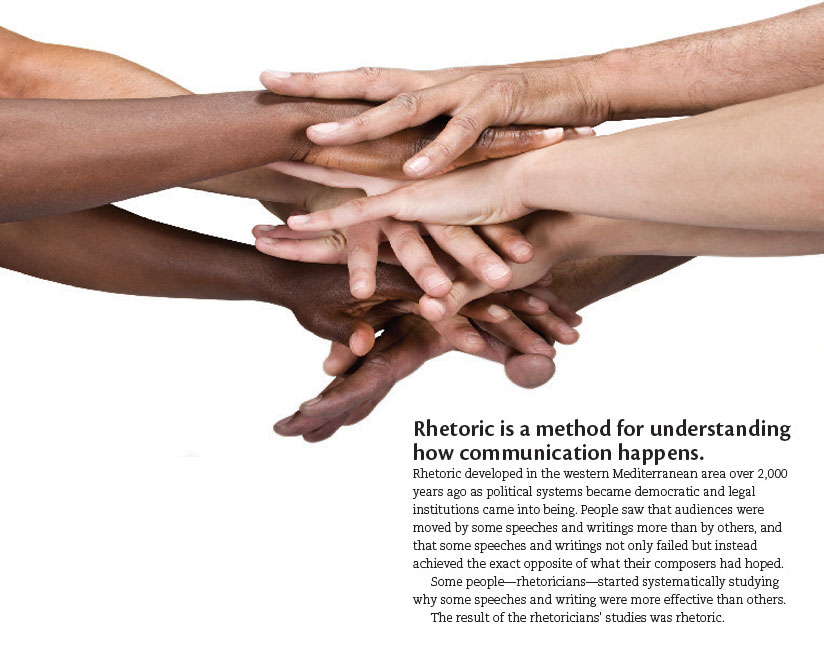
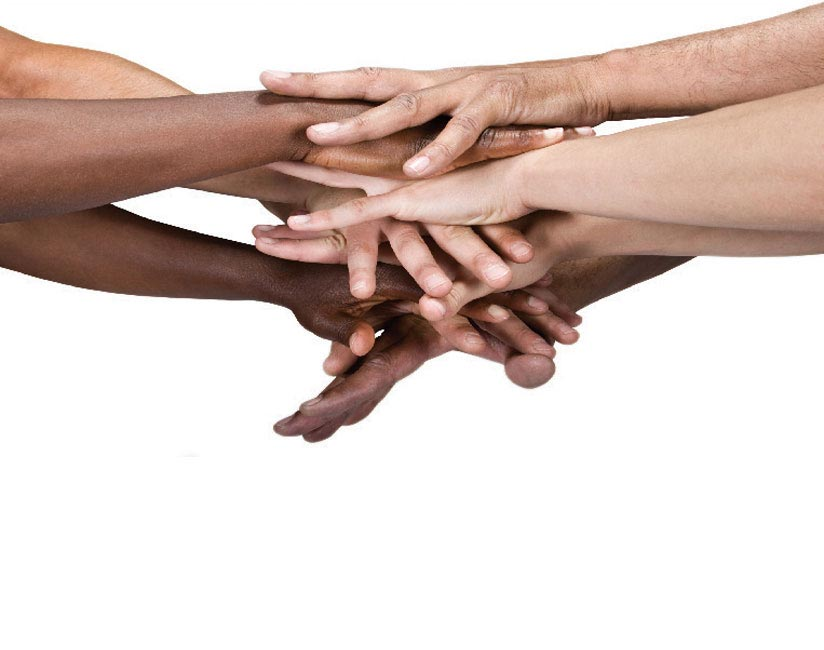
what is rhetoric content and style

Changed region(s): [[0.4854, 0.6462, 0.9709, 0.9538]]

diff --git a/part-1/what-is-rhetoric/what-is-rhetoric.html b/part-1/what-is-rhetoric/what-is-rhetoric.html
@@ -1,3 +1,10 @@
 <div class="page-view-inner what-is-rhetoric">
-
+	<div class="bottom-left">
+		<h1 class="body-heading">Rhetoric is a method for understanding how communication happens.</h1>
+		<div class="body-copy">
+			<p>Rhetoric developed in the western Mediterranean area over 2,000 years ago as political systems became democratic and leagal institutions came into being. People saw that audiences were moved by some speeches and writings more than by others, and that some speeches and writings not only failed but instead achieved the exact opposite of what their composers had hoped.</p>
+			<p>Some people&mdash;rhetoricians&mdash;started systematically studying why some speeches and writing were more effective than others.</p>
+			<p>The result of the rhetoricians' studies was rhetoric.</p>
+		</div>
+	</div>
 </div>

diff --git a/part-1/part-1.css b/part-1/part-1.css
@@ -59,8 +59,11 @@
 .part-1 .what-is-rhetoric {
   background-image: url("what-is-rhetoric/assets/img/background.jpg");
   background-size: cover; }
-  .part-1 .what-is-rhetoric .audience {
-    test: audience; }
+  .part-1 .what-is-rhetoric .bottom-left {
+    bottom: 20px;
+    position: absolute;
+    right: 10px;
+    width: 400px; }
 .part-1 .nav-left {
   background-color: #769b3e;
   border-top-color: #769b3e; }

diff --git a/part-1/what-is-rhetoric/_what-is-rhetoric.scss b/part-1/what-is-rhetoric/_what-is-rhetoric.scss
@@ -1,6 +1,11 @@
 .what-is-rhetoric {
 	background-image: url('what-is-rhetoric/assets/img/background.jpg');
 	background-size: cover;
-	
-	@import 'audience/audience.scss';
+
+	.bottom-left {
+		bottom: 20px;
+		position: absolute;
+		right: 10px;
+		width: 400px;
+	}
 }
